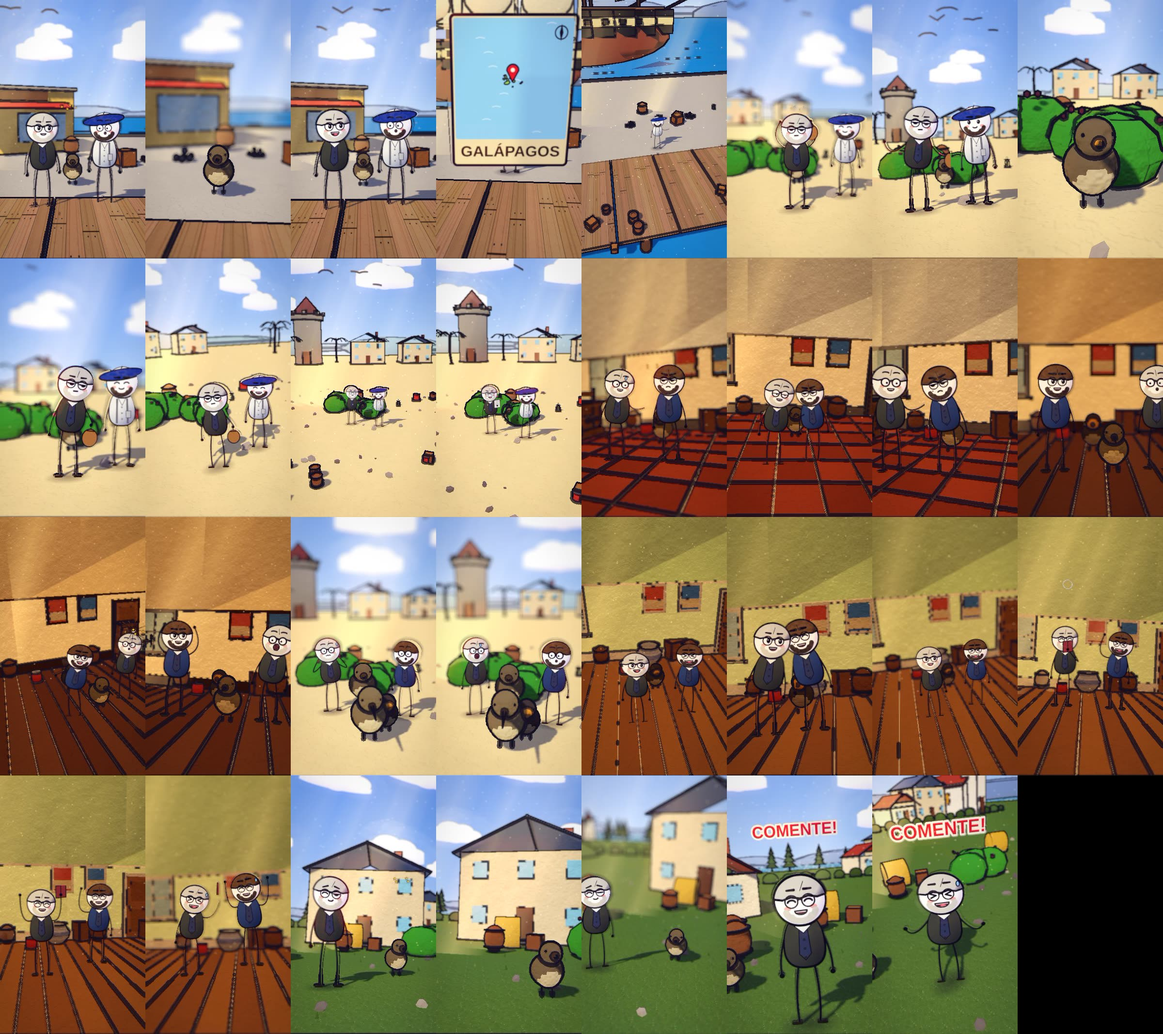
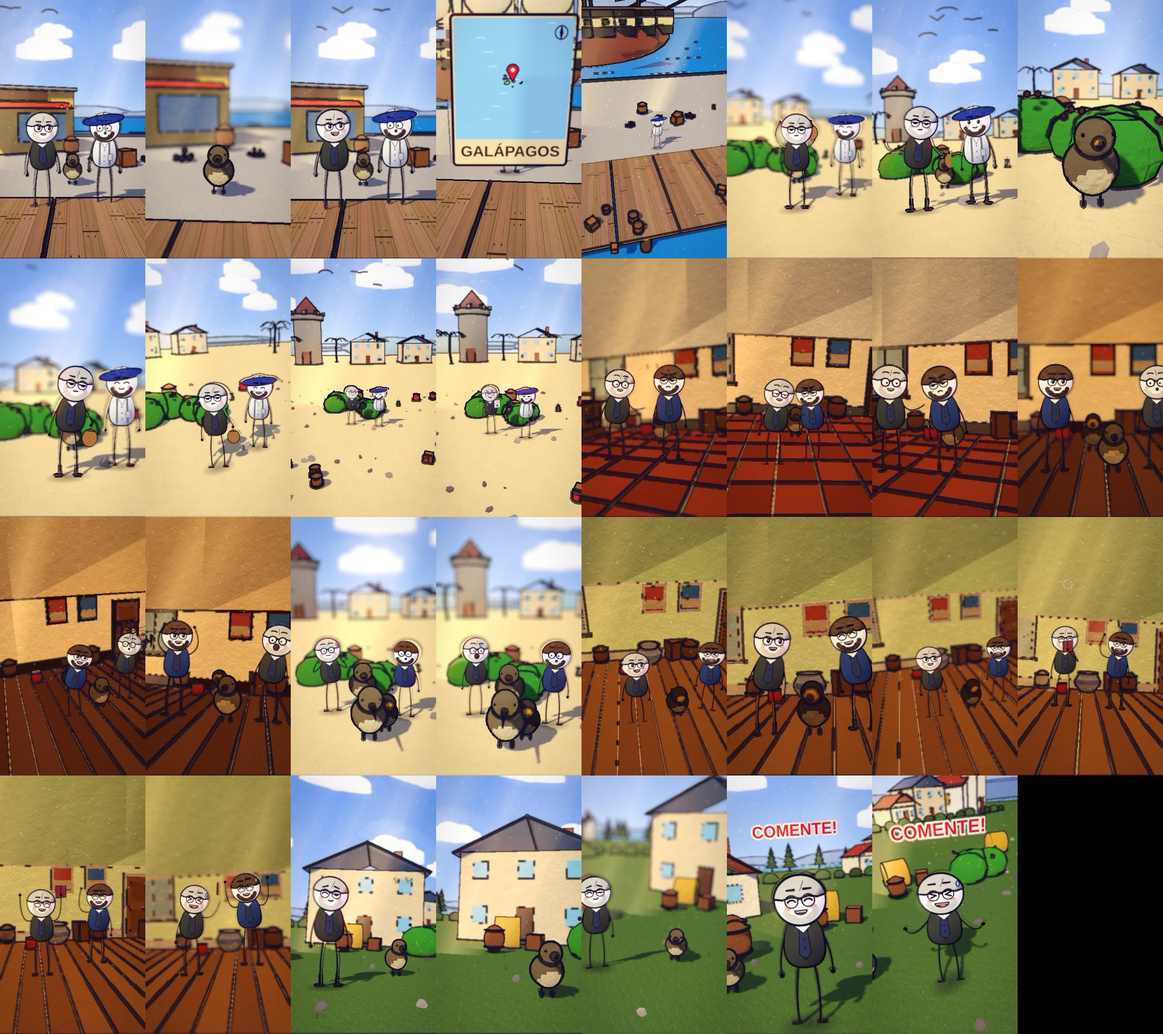
progresso da fila
Claude-Session: https://claude.ai/code/session_01HE8Dy3UcXXZZMLa7uzjNJD

Changed region(s): [[0.6562, 0.5882, 0.75, 0.712], [0.5625, 0.6191, 0.625, 0.712], [0.8125, 0.6191, 0.875, 0.6811]]

diff --git a/ferramenta-shorts/web/story.js b/ferramenta-shorts/web/story.js
@@ -41,7 +41,7 @@ const SPEC = {
     S('b4', A[4], A[5] - 1, X_hall, "study", { h: 2.3, d0: 12.1, d1: 11.5, az0: 6, az1: 12, cx: 0.0, cz: -0.6, vary: false, hero: { hero: 'any', frame: 'medium', minH: 0.07, main: 2 }, trans: 'dissolve', actors: [_MA(pp(X_hall, "DAR", 0, -1.0, 1.3, "surprised", { pose: 'talk', inter: { k: 'lunge', a: Math.round(A[4] + (A[5] - 1 - (A[4])) * 0.12), b: Math.round(A[4] + (A[5] - 1 - (A[4])) * 0.82), dir: 1, n: 2, ph: 0 } }), { gests: [[WS(76) - 8, WS(76) + 46, 'point']] }), pp(X_hall, "GOU", 0, 1.0, 1.0, "shout", { pose: 'talk', inter: { k: 'lunge', a: Math.round(A[4] + (A[5] - 1 - (A[4])) * 0.2), b: Math.round(A[4] + (A[5] - 1 - (A[4])) * 0.9), dir: -1, n: 2, ph: 3.14 } })], props: [{ asset: "kit/room_colonial_stone", at: [X_hall, 0], s: 1, drop: false }, { asset: "mk/Bookcase_2", at: [X_hall + 7.4, -3.4], s: 2.4, drop: false }, { asset: "mk/Table_Large", at: [X_hall + -6.6, -1.6], s: 2.2, drop: false }, { asset: "mk/Chair_1", at: [X_hall + -4.4, -1.2], s: 2.2, drop: false }, { asset: "mk/Chest_Wood", at: [X_hall + 6.9, 0.6], s: 2.2, drop: false }, { asset: "kit/finch", at: [X_hall + 0.0, -1.2], s: 1.5, fixo: true, drop: false }], fx: [{ k: 'stars', a: A[4] + 6, b: A[4] + 40, at: [X_hall + 0.0, DK + 1.6, -0.7], s: 0.8 }] }),
     S('b5', A[5], A[6] - 1, X_hall, "study", { h: 2.3, d0: 12.1, d1: 11.5, az0: -6, az1: 2, cx: 0.0, cz: -0.6, punches: [{ f: WS(91), amt: 0.11, dur: 20 }], vary: false, hero: { hero: 'any', frame: 'medium', minH: 0.07, main: 2 }, trans: 'dissolve', actors: [_MA(pp(X_hall, "GOU", 0, -1.0, 1.3, "smile", { pose: 'talk', inter: { k: 'step', a: Math.round(A[5] + (A[6] - 1 - (A[5])) * 0.12), b: Math.round(A[5] + (A[6] - 1 - (A[5])) * 0.82), dir: 1, n: 2, ph: 0 } }), { gests: [[WS(91) - 8, Math.max(WS(91) + 14, WS(96) - 5), 'throw'], [WS(96) - 8, WS(96) + 46, 'lift']] }), pp(X_hall, "DAR", 0, 1.0, 1.0, "surprised", { pose: 'talk', inter: { k: 'recoil', a: Math.round(A[5] + (A[6] - 1 - (A[5])) * 0.2), b: Math.round(A[5] + (A[6] - 1 - (A[5])) * 0.9), dir: -1, n: 2, ph: 3.14 } })], props: [{ asset: "kit/room_europa_wood", at: [X_hall, 0], s: 1, drop: false }, { asset: "mk/Cabinet", at: [X_hall + -7.2, -3.3], s: 2.3, drop: false }, { asset: "mk/Bed_Twin1", at: [X_hall + 7.0, -2.4], s: 2.1, drop: false }, { asset: "mk/Nightstand_Shelf", at: [X_hall + 4.6, -3.2], s: 2.2, drop: false }, { asset: "mk/CandleStick_Stand", at: [X_hall + -4.8, -2.8], s: 2.2, drop: false }, { asset: "mk/Barrel", at: [X_hall + -7.4, 0.8], s: 2.0, drop: false }, { asset: "kit/finch_thick", at: [X_hall + 0.0, -1.0], s: 1.5, fixo: true, drop: false }, { asset: "kit/finch_long", at: [X_hall + 0.6, 1.0], s: 1.5, fixo: true, drop: false }], fx: [{ k: "dust", a: A[5] + 40, b: A[5] + 66, at: [X_hall + 0.9, DK + 0.12, 1.0], s: 0.75 }, { k: "stars", a: A[5] + 60, b: A[5] + 86, at: [X_hall, DK + 0.5, 1.2], s: 1.1 }, { k: 'burst', a: WS(91) + 2, b: WS(91) + 20, at: [X_hall + 1.3, DK + 1.6, 2.5], s: 1.1 }, { k: 'stars', a: WS(91) + 4, b: WS(91) + 30, at: [X_hall + 1.3, DK + 1.8, 2.5], s: 0.8 }] }),
     { ...S('b6', A[6], A[7] - 1, X_palace, "day", { h: 2.6, d0: 12.1, d1: 11.5, el: 11, fov: 46, cx: 0.0, cz: -0.6, hero: { hero: 'none', wide: true }, vary: false, nocut: true, trans: 'dissolve', actors: [pp(X_palace, "DAR", 0, -1.0, -0.4, "shock", { pose: 'react' }), pp(X_palace, "GOU", 0, 1.0, 0.2, "surprised")], props: [{ asset: "kit/finch_thick", at: [X_palace + 0.6, 1.0], s: 1.5, fixo: true, drop: false }, { asset: "kit/finch_long", at: [X_palace + 0.0, 1.4], s: 2.0, fixo: true, drop: false }, { asset: "kit/finch", at: [X_palace + 0.0, -1.2], s: 2.0, fixo: true, drop: false }], fx: [{ k: 'birds', a: A[6], b: A[7] - 1, at: [X_palace, DK + 4.5, -30], n: 4, dir: -1, off: 8 }, { k: "ring", a: A[6] + 40, b: A[6] + 66, at: [X_palace, DK + 0.5, 1.2], s: 1.1 }, { k: "stars", a: A[6] + 60, b: A[6] + 86, at: [X_palace, DK + 0.5, 1.2], s: 1.1 }] }), nocut: true },
-    S('b7', A[7], A[8] - 1, X_hall, "study", { h: 2.3, d0: 12.1, d1: 11.5, az0: 10, az1: 4, cx: 0.0, cz: -0.6, hero: { hero: 'any', frame: 'medium', minH: 0.07, main: 2 }, trans: 'dissolve', actors: [pp(X_hall, "DAR", 0, -1.0, 1.3, "smile", { pose: 'talk', inter: { k: 'lean', a: Math.round(A[7] + (A[8] - 1 - (A[7])) * 0.12), b: Math.round(A[7] + (A[8] - 1 - (A[7])) * 0.82), dir: 1, n: 2, ph: 0 } }), pp(X_hall, "GOU", 0, 1.0, 1.0, "grin", { pose: 'talk', inter: { k: 'lean', a: Math.round(A[7] + (A[8] - 1 - (A[7])) * 0.2), b: Math.round(A[7] + (A[8] - 1 - (A[7])) * 0.9), dir: -1, n: 2, ph: 3.14 } })], props: [{ asset: "kit/room_verde_wood", at: [X_hall, 0], s: 1, drop: false }, { asset: "mk/Workbench_Drawers", at: [X_hall + 7.0, -3.0], s: 2.2, drop: false }, { asset: "mk/Shelf_Small_Bottles", at: [X_hall + -6.8, -3.4], s: 2.4, drop: false }, { asset: "mk/Stool", at: [X_hall + 4.8, -1.4], s: 2.2, drop: false }, { asset: "mk/Crate_Wooden", at: [X_hall + -7.0, 0.4], s: 2.0, drop: false }, { asset: "mk/Vase_2", at: [X_hall + 0.0, -3.6], s: 2.2, drop: false }, { asset: "kit/finch_thick", at: [X_hall + 0.0, -1.0], s: 1.5, fixo: true, drop: false }] }),
+    S('b7', A[7], A[8] - 1, X_hall, "study", { h: 2.3, d0: 12.1, d1: 11.5, az0: 10, az1: 4, cx: 0.0, cz: -0.6, hero: { hero: 'any', frame: 'medium', minH: 0.07, main: 2 }, trans: 'dissolve', actors: [pp(X_hall, "DAR", 0, -1.0, 1.3, "smile", { pose: 'talk', inter: { k: 'lean', a: Math.round(A[7] + (A[8] - 1 - (A[7])) * 0.12), b: Math.round(A[7] + (A[8] - 1 - (A[7])) * 0.82), dir: 1, n: 2, ph: 0 } }), pp(X_hall, "GOU", 0, 1.0, 1.0, "grin", { pose: 'talk', inter: { k: 'lean', a: Math.round(A[7] + (A[8] - 1 - (A[7])) * 0.2), b: Math.round(A[7] + (A[8] - 1 - (A[7])) * 0.9), dir: -1, n: 2, ph: 3.14 } })], props: [{ asset: "kit/room_verde_wood", at: [X_hall, 0], s: 1, drop: false }, { asset: "mk/Workbench_Drawers", at: [X_hall + 7.0, -3.0], s: 2.2, drop: false }, { asset: "mk/Shelf_Small_Bottles", at: [X_hall + -6.8, -3.4], s: 2.4, drop: false }, { asset: "mk/Stool", at: [X_hall + 4.8, -1.4], s: 2.2, drop: false }, { asset: "mk/Crate_Wooden", at: [X_hall + -7.0, 0.4], s: 2.0, drop: false }, { asset: "mk/Vase_2", at: [X_hall + 0.0, -3.6], s: 2.2, drop: false }, { asset: "kit/finch_thick", at: [X_hall + 0.6, 1.0], s: 1.5, fixo: true, drop: false }] }),
     S('b8', A[8], A[9] - 1, X_hall, "study", { h: 2.5, d0: 11.4, d1: 10.2, az0: -13, az1: -7, vary: false, hero: { hero: 'any', frame: 'medium', minH: 0.07, main: 2 }, trans: 'dissolve', actors: [_MA(pp(X_hall, "DAR", 0, -1.0, 1.3, "grin", { over: { hold: "book" }, pose: 'cheer', inter: { k: 'hop', a: Math.round(A[8] + (A[9] - 1 - (A[8])) * 0.12), b: Math.round(A[8] + (A[9] - 1 - (A[8])) * 0.82), dir: 1, n: 2, ph: 0 } }), { gests: [[WS(127) - 8, WS(127) + 46, 'think']] }), pp(X_hall, "GOU", 0, 1.0, 1.0, "laugh", { pose: 'cheer', inter: { k: 'hop', a: Math.round(A[8] + (A[9] - 1 - (A[8])) * 0.2), b: Math.round(A[8] + (A[9] - 1 - (A[8])) * 0.9), dir: -1, n: 2, ph: 3.14 } })], props: [{ asset: "kit/room_verde_wood", at: [X_hall, 0], s: 1, drop: false }, { asset: "mk/Workbench_Drawers", at: [X_hall + 7.0, -3.0], s: 2.2, drop: false }, { asset: "mk/Shelf_Small_Bottles", at: [X_hall + -6.8, -3.4], s: 2.4, drop: false }, { asset: "mk/Stool", at: [X_hall + 4.8, -1.4], s: 2.2, drop: false }, { asset: "mk/Crate_Wooden", at: [X_hall + -7.0, 0.4], s: 2.0, drop: false }, { asset: "mk/Vase_2", at: [X_hall + 0.0, -3.6], s: 2.2, drop: false }], fx: [{ k: 'ring', a: WS(127) + 6, b: WS(127) + 34, at: [X_hall + -1.0, DK + 3.6, 1.5], s: 0.7 }] }),
     S('b9', A[9], Math.round(A[9] + (A[10] - 1 + 1 - (A[9])) * 0.36) - 1, X_countryside, "day", { h: 2.3, d0: 8.4, d1: 8.0, az0: -6, az1: 8, cx: 1.2, cz: 0.1, hero: { hero: 'any', frame: 'medium', minH: 0.07, main: 1 }, trans: 'dissolve', actors: [pp(X_countryside, "DAR", 0, 0.0, 1.3, "smug", { pose: 'talk' })], props: [{ asset: "buildings/house_two", at: [X_countryside + 4.8, -11.0], s: 1.05, ry: -0.35, drop: false }, { asset: "kit/finch", at: [X_countryside + 2.4, 0.2], s: 1.3, fixo: true, drop: false }], fx: [{ k: 'stars', a: A[9] + 6, b: A[9] + 40, at: [X_countryside + 2.4, DK + 1.6, 0.7], s: 0.8 }] }), { ...S('b9_d', Math.round(A[9] + (A[10] - 1 + 1 - (A[9])) * 0.36), Math.round(A[9] + (A[10] - 1 + 1 - (A[9])) * 0.6) - 1, X_countryside, "day", { h: 2.3, d0: 8.4, d1: 8.0, az0: -6, az1: 8, cx: 1.2, cz: 0.1, hero: { hero: 'none', detalhe: true }, trans: 'cut', actors: [pp(X_countryside, "DAR", 0, 0.0, 1.3, "smug", { pose: 'stand' })], props: [{ asset: "buildings/house_two", at: [X_countryside + 4.8, -11.0], s: 1.05, drop: false, ry: -0.35, drop: false }, { asset: "kit/finch", at: [X_countryside + 2.4, 0.2], s: 1.3, drop: false, fixo: true, drop: false }], fx: [{ k: 'stars', a: A[9] + 6, b: A[9] + 40, at: [X_countryside + 2.4, DK + 1.6, 0.7], s: 0.8 }] }), cam: [{ f: Math.round(A[9] + (A[10] - 1 + 1 - (A[9])) * 0.36), at: [X_countryside + 2.4, DK + 0.975, 0.2], d: 4.2, az: -14, el: 10, fov: 44 }, { f: Math.round(A[9] + (A[10] - 1 + 1 - (A[9])) * 0.6) - 1, at: [X_countryside + 2.4, DK + 0.975, 0.2], d: 3.4, az: -8, el: 9, fov: 44 }], nocut: true, vary: false, glide: true, glideN: 34 }, { ...S('b9_v', Math.round(A[9] + (A[10] - 1 + 1 - (A[9])) * 0.6), A[10] - 1, X_countryside, "day", { h: 2.3, d0: 8.4, d1: 8.0, az0: -6, az1: 8, cx: 1.2, cz: 0.1, hero: { hero: 'any', frame: 'medium', minH: 0.07, main: 1 }, trans: 'cut', actors: [pp(X_countryside, "DAR", 0, 0.0, 1.3, "smug", { pose: 'talk' })], props: [{ asset: "buildings/house_two", at: [X_countryside + 4.8, -11.0], s: 1.05, drop: false, ry: -0.35, drop: false }, { asset: "kit/finch", at: [X_countryside + 2.4, 0.2], s: 1.3, drop: false, fixo: true, drop: false }], fx: [{ k: 'stars', a: A[9] + 6, b: A[9] + 40, at: [X_countryside + 2.4, DK + 1.6, 0.7], s: 0.8 }] }), glide: true, glideN: 34 },
     S('b10', A[10], A[11] - 1, X_countryside, "day", { h: 2.4, d0: 6.4, d1: 5.6, az0: -26, az1: -12, hero: { hero: 'any', frame: 'medium', minH: 0.07, main: 1 }, trans: 'dissolve', actors: [pp(X_countryside, "DAR", 0, 0.0, 1.3, "grin", { pose: 'talk' })], props: [{ asset: "buildings/house_small", at: [X_countryside + -4.8, -11.0], s: 1.05, ry: 0.35, drop: false }, { asset: "kit/finch", at: [X_countryside + -1.7, -0.5], s: 1.3, drop: false }], fx: [{ k: 'stars', a: A[10] + 6, b: A[10] + 40, at: [X_countryside + -1.7, DK + 1.6, 0.0], s: 0.8 }, { k: 'birds', a: A[10], b: A[11] - 1, at: [X_countryside, DK + 6.0, -30], n: 5, dir: -1, off: 8 }, txt(X_countryside, WS(151, -2), A[11] - 1, "COMENTE!", '#d8282f', '#fff6e0', 4.6, { s: 1.5, up: 0.55 })] })

diff --git a/ferramenta-shorts/stories/darwin1835/folha2_producao.md b/ferramenta-shorts/stories/darwin1835/folha2_producao.md
@@ -11,17 +11,6 @@ Coordenadas de cada cena para modelagem, animacao e camera, com os RISCOS que o 
 - Objetos/modelos: kit/finch
 - CONFERIR NA FOLHA DE CONTATO (o que a narracao cita tem que aparecer): cientista, etiquetas, terra
 - RISCOS: nenhum
-<!-- FICHA -->
-
-### FICHA TECNICA DA CENA (lugar, camera, personagens, objetos, efeitos, texto)
-- LOCAL: cais de madeira na beira do mar (agua e horizonte ao fundo); hora: day
-- CAMERA: plano medio, 2 personagens de corpo inteiro; plano medio enquadrando personagens e finch juntos (camera a 11.5 m)
-- PERSONAGENS: DAR (cientista) na esquerda, expressao smile; MAR (marinheiro) na direita, expressao surprised; sem multidao; acao: fala/gesto
-- OBJETO kit/finch: MEIO, centro (objeto principal da cena); tamanho na tela: 32% da altura da tela; estado: PARADO; 1.3 m: entre e um pouco atras dos personagens, mesmo plano, tamanho de uma pessoa
-- TAKES: 2 takes (troca de angulo a cada ~2.0 s, sem corte seco):
-  - take 1 (0.1-2.1 s): gira 14 graus para a esquerda, camera mais alta, olhando um pouco de cima, um pouco mais longe
-  - take 2 (2.1-4.1 s): gira 8 graus para a direita, camera mais baixa, olhando um pouco de baixo, um pouco mais perto
-<!-- /FICHA -->
 
 ## Cena b1 - Em mil oitocentos e trinta e cinco, Charles Darwin chegou às ilhas Gal...
 - Cenario: harbor | luz: day | clima: limpo
@@ -32,19 +21,6 @@ Coordenadas de cada cena para modelagem, animacao e camera, com os RISCOS que o 
 - Objetos/modelos: kit/navio_vela, navios de guerra ao fundo, no tamanho real, navio em movimento
 - CONFERIR NA FOLHA DE CONTATO (o que a narracao cita tem que aparecer): ilhas, navio
 - RISCOS: nenhum
-<!-- FICHA -->
-
-### FICHA TECNICA DA CENA (lugar, camera, personagens, objetos, efeitos, texto)
-- LOCAL: cais de madeira na beira do mar (agua e horizonte ao fundo); hora: day
-- CAMERA: plano aberto (cenario inteiro); plano aberto mirando o navio_vela (alvo z -2.0, camera a 20.0 m, altura 4.0 m), sem multidao na frente
-- PERSONAGENS: MAR (marinheiro) no centro, expressao neutral; sem multidao; acao: fala/gesto
-- OBJETO kit/navio_vela: FUNDO, centro (objeto principal da cena); tamanho na tela: 30% da altura da tela; estado: CHEGANDO; 42.8 m de altura x 40.5 m: ATRAS dos personagens, de lado, ocupando a largura do quadro (a ponta pode sair da tela); personagens na frente, menores
-- MAPA: GALÁPAGOS (cobre a tela 1-2 s)
-- TAKES: 3 takes (troca de angulo a cada ~1.5 s, sem corte seco):
-  - take 1 (5.2-6.7 s): gira 18 graus para a esquerda, camera mais alta, olhando um pouco de cima, um pouco mais longe
-  - take 2 (6.7-8.2 s): gira 12 graus para a direita, camera mais baixa, olhando um pouco de baixo
-  - take 3 (8.2-9.7 s): mesmo angulo
-<!-- /FICHA -->
 
 ## Cena b2 - Coletou bichos, plantas e uns passarinhos pequenos, de ilha em ilha. A...
 - Cenario: palace | luz: day | clima: limpo
@@ -55,19 +31,6 @@ Coordenadas de cada cena para modelagem, animacao e camera, com os RISCOS que o 
 - Objetos/modelos: kit/finch
 - CONFERIR NA FOLHA DE CONTATO (o que a narracao cita tem que aparecer): beagle, ilha, viagem
 - RISCOS: nenhum
-<!-- FICHA -->
-
-### FICHA TECNICA DA CENA (lugar, camera, personagens, objetos, efeitos, texto)
-- LOCAL: praia / palacio; hora: day
-- CAMERA: plano medio, 2 personagens de corpo inteiro; plano medio enquadrando personagens e finch juntos (camera a 11.5 m)
-- PERSONAGENS: DAR (cientista) na esquerda, expressao neutral, segura bag; MAR (marinheiro) na direita, expressao smile; sem multidao; acao: fala/gesto
-- OBJETO kit/finch: MEIO, centro (objeto principal da cena); tamanho na tela: 32% da altura da tela; estado: PARADO; 1.2 m: entre e um pouco atras dos personagens, mesmo plano, tamanho de uma pessoa
-- TAKES: 4 takes (troca de angulo a cada ~1.9 s, sem corte seco):
-  - take 1 (10.8-12.7 s): mesmo angulo
-  - take 2 (12.7-14.7 s): gira 16 graus para a direita, camera mais baixa, olhando um pouco de baixo, um pouco mais perto
-  - take 3 (14.7-16.6 s): gira 14 graus para a esquerda, camera mais alta, olhando um pouco de cima, um pouco mais longe
-  - take 4 (16.6-18.5 s): gira 8 graus para a direita, camera mais baixa, olhando um pouco de baixo, um pouco mais perto
-<!-- /FICHA -->
 
 ## Cena b3 - Achou que eram aves bem diferentes, e nem anotou de que ilha vinha cad...
 - Cenario: palace | luz: day | clima: limpo
@@ -78,17 +41,6 @@ Coordenadas de cada cena para modelagem, animacao e camera, com os RISCOS que o 
 - Objetos/modelos: kit/finch
 - CONFERIR NA FOLHA DE CONTATO (o que a narracao cita tem que aparecer): -
 - RISCOS: nenhum
-<!-- FICHA -->
-
-### FICHA TECNICA DA CENA (lugar, camera, personagens, objetos, efeitos, texto)
-- LOCAL: praia / palacio; hora: day
-- CAMERA: plano medio, 2 personagens de corpo inteiro
-- PERSONAGENS: DAR (cientista) na esquerda, expressao suspicious, segura paper; MAR (marinheiro) na direita, expressao bored; sem multidao; acao: conversar
-- OBJETOS: so cenario (nenhum objeto da historia nesta cena)
-- TAKES: 2 takes (troca de angulo a cada ~1.9 s, sem corte seco):
-  - take 1 (19.6-21.5 s): gira 18 graus para a esquerda, camera mais alta, olhando um pouco de cima, um pouco mais longe
-  - take 2 (21.5-23.3 s): gira 12 graus para a direita, camera mais baixa, olhando um pouco de baixo
-<!-- /FICHA -->
 
 ## Cena b4 - Em Londres, o especialista John Gould revelou: eram todos tentilhões, ...
 - Cenario: interior pedra | luz: day | clima: limpo
@@ -99,18 +51,6 @@ Coordenadas de cada cena para modelagem, animacao e camera, com os RISCOS que o 
 - Objetos/modelos: kit/finch
 - CONFERIR NA FOLHA DE CONTATO (o que a narracao cita tem que aparecer): especialista, especies
 - RISCOS: nenhum
-<!-- FICHA -->
-
-### FICHA TECNICA DA CENA (lugar, camera, personagens, objetos, efeitos, texto)
-- LOCAL: sala de pedra (governo/castelo); hora: day
-- CAMERA: plano medio, 2 personagens de corpo inteiro; plano medio enquadrando personagens e finch juntos (camera a 11.5 m)
-- PERSONAGENS: DAR (cientista) na esquerda, expressao surprised; GOU (cientista) na direita, expressao shout; sem multidao; acao: discutir
-- OBJETO kit/finch: MEIO, centro (objeto principal da cena); tamanho na tela: 32% da altura da tela; estado: PARADO; 1.4 m: entre e um pouco atras dos personagens, mesmo plano, tamanho de uma pessoa
-- TAKES: 3 takes (troca de angulo a cada ~1.5 s, sem corte seco):
-  - take 1 (24.4-25.9 s): gira 16 graus para a direita, camera mais baixa, olhando um pouco de baixo, um pouco mais perto
-  - take 2 (25.9-27.5 s): gira 14 graus para a esquerda, camera mais alta, olhando um pouco de cima, um pouco mais longe
-  - take 3 (27.5-29.0 s): gira 8 graus para a direita, camera mais baixa, olhando um pouco de baixo, um pouco mais perto
-<!-- /FICHA -->
 
 ## Cena b5 - A diferença estava no bico: uns grossos para quebrar sementes, outros ...
 - Cenario: interior madeira | luz: day | clima: limpo
@@ -121,23 +61,6 @@ Coordenadas de cada cena para modelagem, animacao e camera, com os RISCOS que o 
 - Objetos/modelos: kit/finch_thick, kit/finch_long
 - CONFERIR NA FOLHA DE CONTATO (o que a narracao cita tem que aparecer): bico, diferenca
 - RISCOS: nenhum
-<!-- FICHA -->
-
-### FICHA TECNICA DA CENA (lugar, camera, personagens, objetos, efeitos, texto)
-- LOCAL: sala de madeira; hora: day
-- CAMERA: plano medio, 2 personagens de corpo inteiro; plano medio enquadrando personagens e finch_thick juntos (camera a 11.5 m)
-- PERSONAGENS: GOU (cientista) na esquerda, expressao smile; DAR (cientista) na direita, expressao surprised; sem multidao; acao: fala/gesto
-- OBJETO kit/finch_thick: MEIO, centro (objeto principal da cena); tamanho na tela: 32% da altura da tela; estado: PARADO; 1.4 m: entre e um pouco atras dos personagens, mesmo plano, tamanho de uma pessoa
-- OBJETO kit/finch_long: MEIO, direita; tamanho na tela: 32% da altura da tela; estado: PARADO; 1.4 m: entre e um pouco atras dos personagens, mesmo plano, tamanho de uma pessoa
-- EFEITO poeira nos pes: no chao, aos pes; entra no quadro +40 da cena
-- EFEITO estrelinhas sobre a cabeca (susto/tontura): acima da cabeca; entra no quadro +60 da cena
-- SOM: thump@40
-- SOM: ding@60
-- TAKES: 3 takes (troca de angulo a cada ~1.6 s, sem corte seco):
-  - take 1 (30.5-32.1 s): gira 8 graus para a direita, camera mais baixa, olhando um pouco de baixo, um pouco mais perto
-  - take 2 (32.1-33.8 s): gira 18 graus para a esquerda, camera mais alta, olhando um pouco de cima, um pouco mais longe
-  - take 3 (33.8-35.4 s): gira 12 graus para a direita, camera mais baixa, olhando um pouco de baixo
-<!-- /FICHA -->
 
 ## Cena b6 - Acontece que, em cada ilha, o bico tinha mudado de acordo com a comida...
 - Cenario: palace | luz: day | clima: limpo
@@ -148,21 +71,6 @@ Coordenadas de cada cena para modelagem, animacao e camera, com os RISCOS que o 
 - Objetos/modelos: kit/finch_thick, kit/finch_long, kit/finch
 - CONFERIR NA FOLHA DE CONTATO (o que a narracao cita tem que aparecer): acordo, bico, comida
 - RISCOS: nenhum
-<!-- FICHA -->
-
-### FICHA TECNICA DA CENA (lugar, camera, personagens, objetos, efeitos, texto)
-- LOCAL: praia / palacio; hora: day
-- CAMERA: plano medio, 2 personagens de corpo inteiro; plano medio enquadrando personagens e finch juntos (camera a 11.5 m)
-- PERSONAGENS: DAR (cientista) na esquerda, expressao shock; GOU (cientista) na direita, expressao surprised; sem multidao; acao: fala/gesto
-- OBJETO kit/finch: MEIO, centro (objeto principal da cena); tamanho na tela: 32% da altura da tela; estado: PARADO; 1.9 m: entre e um pouco atras dos personagens, mesmo plano, tamanho de uma pessoa
-- OBJETO kit/finch_thick: MEIO, direita; tamanho na tela: 32% da altura da tela; estado: PARADO; 1.4 m: entre e um pouco atras dos personagens, mesmo plano, tamanho de uma pessoa
-- OBJETO kit/finch_long: MEIO, esquerda; tamanho na tela: 32% da altura da tela; estado: PARADO; 1.9 m: entre e um pouco atras dos personagens, mesmo plano, tamanho de uma pessoa
-- EFEITO anel de impacto: acima da cabeca; entra no quadro +40 da cena
-- EFEITO estrelinhas sobre a cabeca (susto/tontura): acima da cabeca; entra no quadro +60 da cena
-- SOM: ding@40
-- SOM: sting@60
-- TAKES: sequencia de acao em 3 cameras (3.7 s): 1) plano medio baixo na tropa (30%); 2) travelling lateral acompanhando a acao (25%); 3) grua subindo ate a vista de cima do campo (45%)
-<!-- /FICHA -->
 
 ## Cena b7 - Os bichos com o bico certo sobreviviam melhor, e passavam isso para os...
 - Cenario: interior madeira | luz: day | clima: limpo
@@ -173,17 +81,6 @@ Coordenadas de cada cena para modelagem, animacao e camera, com os RISCOS que o 
 - Objetos/modelos: kit/finch_thick
 - CONFERIR NA FOLHA DE CONTATO (o que a narracao cita tem que aparecer): bichos, bico, filhos
 - RISCOS: nenhum
-<!-- FICHA -->
-
-### FICHA TECNICA DA CENA (lugar, camera, personagens, objetos, efeitos, texto)
-- LOCAL: sala de madeira; hora: day
-- CAMERA: plano medio, 2 personagens de corpo inteiro; plano medio enquadrando personagens e finch_thick juntos (camera a 11.5 m)
-- PERSONAGENS: DAR (cientista) na esquerda, expressao smile; GOU (cientista) na direita, expressao grin; sem multidao; acao: cochichar
-- OBJETO kit/finch_thick: MEIO, centro (objeto principal da cena); tamanho na tela: 32% da altura da tela; estado: PARADO; 1.4 m: entre e um pouco atras dos personagens, mesmo plano, tamanho de uma pessoa
-- TAKES: 2 takes (troca de angulo a cada ~2.0 s, sem corte seco):
-  - take 1 (41.6-43.5 s): gira 14 graus para a esquerda, camera mais alta, olhando um pouco de cima, um pouco mais longe
-  - take 2 (43.5-45.5 s): gira 8 graus para a direita, camera mais baixa, olhando um pouco de baixo, um pouco mais perto
-<!-- /FICHA -->
 
 ## Cena b8 - Essa ideia virou a seleção natural, publicada em mil oitocentos e cinq...
 - Cenario: interior madeira | luz: day | clima: limpo
@@ -194,17 +91,6 @@ Coordenadas de cada cena para modelagem, animacao e camera, com os RISCOS que o 
 - Objetos/modelos: -
 - CONFERIR NA FOLHA DE CONTATO (o que a narracao cita tem que aparecer): selecao
 - RISCOS: nenhum
-<!-- FICHA -->
-
-### FICHA TECNICA DA CENA (lugar, camera, personagens, objetos, efeitos, texto)
-- LOCAL: sala de madeira; hora: day
-- CAMERA: plano medio, 2 personagens de corpo inteiro
-- PERSONAGENS: DAR (cientista) na esquerda, expressao grin, segura book; GOU (cientista) na direita, expressao laugh; sem multidao; acao: comemorar
-- OBJETOS: so cenario (nenhum objeto da historia nesta cena)
-- TAKES: 2 takes (troca de angulo a cada ~2.0 s, sem corte seco):
-  - take 1 (46.6-48.5 s): gira 12 graus para a direita, camera mais baixa, olhando um pouco de baixo
-  - take 2 (48.5-50.5 s): mesmo angulo
-<!-- /FICHA -->
 
 ## Cena b9 - No fim, o erro das etiquetas virou um acerto de bico.
 - Cenario: countryside | luz: day | clima: limpo
@@ -215,17 +101,6 @@ Coordenadas de cada cena para modelagem, animacao e camera, com os RISCOS que o 
 - Objetos/modelos: kit/finch
 - CONFERIR NA FOLHA DE CONTATO (o que a narracao cita tem que aparecer): acerto, bico, erro, etiquetas
 - RISCOS: nenhum
-<!-- FICHA -->
-
-### FICHA TECNICA DA CENA (lugar, camera, personagens, objetos, efeitos, texto)
-- LOCAL: vila rural (casas, cercas, campo); hora: day
-- CAMERA: plano medio, 2 personagens de corpo inteiro; plano medio enquadrando personagens e finch juntos (camera a 8.0 m)
-- PERSONAGENS: DAR (cientista) no centro, expressao smug; sem multidao; acao: fala/gesto
-- OBJETO kit/finch: MEIO, direita (objeto principal da cena); tamanho na tela: 32% da altura da tela; estado: PARADO; 1.2 m: ao lado do personagem, mesmo plano, tamanho de uma pessoa
-- TAKES: 2 takes (troca de angulo a cada ~1.4 s, sem corte seco):
-  - take 1 (51.5-52.9 s): gira 16 graus para a direita, camera mais baixa, olhando um pouco de baixo, um pouco mais perto
-  - take 2 (52.9-54.2 s): gira 14 graus para a esquerda, camera mais alta, olhando um pouco de cima, um pouco mais longe
-<!-- /FICHA -->
 
 ## Cena b10 - Agora não deixe de comentar: qual deve ser o tema do próximo vídeo?
 - Cenario: countryside | luz: day | clima: limpo
@@ -259,12 +134,3 @@ kit/finch_long | b5, b6 | pronto | conferir na folha de contato se le bem; se pa
 - Defeito em poucas cenas e narracao igual: corrija o beats.json e `./refazer.sh darwin1835 bN bM` (so essas cenas).
 - Mudou narracao, ferramenta ou muitas cenas: `./refazer_tudo.sh darwin1835` (render completo).
 - Personagem cortado: tire gente do "who" ou use "shot": "group". Cena vazia: confira "who". Objeto fora do quadro: ponha em "props" com x entre -2 e 2. Luz estourada: "hora"/"clima" na cena.
-<!-- FICHA -->
-
-### FICHA TECNICA DA CENA (lugar, camera, personagens, objetos, efeitos, texto)
-- (sem ficha)
-- TAKES: 2 takes (troca de angulo a cada ~1.7 s, sem corte seco):
-  - take 1 (55.3-57.0 s): gira 8 graus para a direita, camera mais baixa, olhando um pouco de baixo, um pouco mais perto
-  - take 2 (57.0-58.6 s): gira 18 graus para a esquerda, camera mais alta, olhando um pouco de cima, um pouco mais longe
-<!-- /FICHA -->
-

diff --git a/ferramenta-shorts/stories/darwin1835/folha3_acao.md b/ferramenta-shorts/stories/darwin1835/folha3_acao.md
@@ -12,13 +12,6 @@ Catalogo de TODAS as acoes do roteiro, frase por frase, com o instante (segundos
 | 1 | explicou (3.3s) | ACAO: fala | aponta explicando | OK |
 | 2 | - | INTERACAO | vai ate o outro | OK |
 | 3 | - | ATUACAO | conversar | OK |
-<!-- FISICA -->
-
-**FISICA E MOVIMENTO (como cada acao acontece na tela):**
-- ACAO: fala na palavra explicou (3.3s): braco estendido apontando para o objeto/lugar citado
-- INTERACAO (a cena toda): executa: vai ate o outro
-- ATUACAO (a cena toda): executa: conversar
-<!-- /FISICA -->
 
 ## Cena b1 - 5.2s a 9.7s - 16 palavras - plano reveal
 > "Em mil oitocentos e trinta e cinco, Charles Darwin chegou às ilhas Galápagos, no navio Beagle."
@@ -28,14 +21,6 @@ Catalogo de TODAS as acoes do roteiro, frase por frase, com o instante (segundos
 | 1 | chegou (7.7s) | EFEITO: dust | poeira + som | OK |
 | 2 | chegou (7.7s) | ACAO: chega | entra andando pela lateral | OK |
 | 3 | - | MAPA | GALÁPAGOS | OK |
-<!-- FISICA -->
-
-**FISICA E MOVIMENTO (como cada acao acontece na tela):**
-- EFEITO: dust na palavra chegou (7.7s): executa: poeira + som
-- ACAO: chega na palavra chegou (7.7s): executa: entra andando pela lateral
-- MAPA (a cena toda): mapa entra em ~0,3 s e cobre a tela por 1-2 s, com o ponto do lugar pulsando
-- kit/navio_vela CHEGANDO: entra pela esquerda do quadro e desliza ate o lugar da ficha em ~85% da cena (velocidade constante, sem tremer)
-<!-- /FISICA -->
 
 ## Cena b2 - 10.8s a 18.5s - 24 palavras - plano two
 > "Coletou bichos, plantas e uns passarinhos pequenos, de ilha em ilha. A viagem do Beagle durou quase cinco anos, dando a volta ao mundo."
@@ -45,13 +30,6 @@ Catalogo de TODAS as acoes do roteiro, frase por frase, com o instante (segundos
 | 1 | Coletou (10.8s) | ACAO: pega | levanta/segura | OK |
 | 2 | - | INTERACAO | aproxima-se | OK |
 | 3 | - | ATUACAO | conversar | OK |
-<!-- FISICA -->
-
-**FISICA E MOVIMENTO (como cada acao acontece na tela):**
-- ACAO: pega na palavra Coletou (10.8s): executa: levanta/segura
-- INTERACAO (a cena toda): executa: aproxima-se
-- ATUACAO (a cena toda): executa: conversar
-<!-- /FISICA -->
 
 ## Cena b3 - 19.6s a 23.3s - 15 palavras - plano wide
 > "Achou que eram aves bem diferentes, e nem anotou de que ilha vinha cada uma."
@@ -61,13 +39,6 @@ Catalogo de TODAS as acoes do roteiro, frase por frase, com o instante (segundos
 | 1 | Achou (19.6s) | ACAO: olha | aponta/olha | OK |
 | 2 | - | GRANDE MOMENTO | plano de impacto: efeito + som na palavra-chave (sem tiro) | OK |
 | 3 | - | ATUACAO | conversar | OK |
-<!-- FISICA -->
-
-**FISICA E MOVIMENTO (como cada acao acontece na tela):**
-- ACAO: olha na palavra Achou (19.6s): braco estendido apontando para o objeto/lugar citado
-- GRANDE MOMENTO (a cena toda): clarao no cano da arma por ~0,25 s + estampido; a arma recua; o alvo (se houver) tomba
-- ATUACAO (a cena toda): executa: conversar
-<!-- /FISICA -->
 
 ## Cena b4 - 24.4s a 29.0s - 13 palavras - plano two
 > "Em Londres, o especialista John Gould revelou: eram todos tentilhões, de espécies diferentes."
@@ -77,13 +48,6 @@ Catalogo de TODAS as acoes do roteiro, frase por frase, com o instante (segundos
 | 1 | revelou (26.3s) | ACAO: fala | aponta explicando | OK |
 | 2 | - | INTERACAO | discutir | OK |
 | 3 | - | ATUACAO | conversar | OK |
-<!-- FISICA -->
-
-**FISICA E MOVIMENTO (como cada acao acontece na tela):**
-- ACAO: fala na palavra revelou (26.3s): braco estendido apontando para o objeto/lugar citado
-- INTERACAO (a cena toda): os dois inclinam o tronco um para o outro alternando, bocas abertas, gesto de apontar
-- ATUACAO (a cena toda): executa: conversar
-<!-- /FISICA -->
 
 ## Cena b5 - 30.5s a 35.4s - 15 palavras - plano two
 > "A diferença estava no bico: uns grossos para quebrar sementes, outros finos para pegar insetos."
@@ -94,14 +58,6 @@ Catalogo de TODAS as acoes do roteiro, frase por frase, com o instante (segundos
 | 2 | pegar (35.1s) | ACAO: pega | levanta/segura | OK |
 | 3 | - | INTERACAO | avanca e o outro recua | OK |
 | 4 | - | ATUACAO | conversar | OK |
-<!-- FISICA -->
-
-**FISICA E MOVIMENTO (como cada acao acontece na tela):**
-- ACAO: quebra na palavra quebrar (33.0s): executa: quebra + estouro + tremor
-- ACAO: pega na palavra pegar (35.1s): executa: levanta/segura
-- INTERACAO (a cena toda): executa: avanca e o outro recua
-- ATUACAO (a cena toda): executa: conversar
-<!-- /FISICA -->
 
 ## Cena b6 - 36.7s a 40.4s - 14 palavras - plano wide
 > "Acontece que, em cada ilha, o bico tinha mudado de acordo com a comida."
@@ -110,12 +66,6 @@ Catalogo de TODAS as acoes do roteiro, frase por frase, com o instante (segundos
 |---|---|---|---|---|
 | 1 | - | GRANDE MOMENTO | plano de impacto: efeito + som na palavra-chave (sem tiro) | OK |
 | 2 | - | ATUACAO | reagir | OK |
-<!-- FISICA -->
-
-**FISICA E MOVIMENTO (como cada acao acontece na tela):**
-- GRANDE MOMENTO (a cena toda): clarao no cano da arma por ~0,25 s + estampido; a arma recua; o alvo (se houver) tomba
-- ATUACAO (a cena toda): executa: reagir
-<!-- /FISICA -->
 
 ## Cena b7 - 41.6s a 45.5s - 14 palavras - plano two
 > "Os bichos com o bico certo sobreviviam melhor, e passavam isso para os filhos."
@@ -124,12 +74,6 @@ Catalogo de TODAS as acoes do roteiro, frase por frase, com o instante (segundos
 |---|---|---|---|---|
 | 1 | - | INTERACAO | cochichar | OK |
 | 2 | - | ATUACAO | conversar | OK |
-<!-- FISICA -->
-
-**FISICA E MOVIMENTO (como cada acao acontece na tela):**
-- INTERACAO (a cena toda): executa: cochichar
-- ATUACAO (a cena toda): executa: conversar
-<!-- /FISICA -->
 
 ## Cena b8 - 46.6s a 50.5s - 14 palavras - plano group
 > "Essa ideia virou a seleção natural, publicada em mil oitocentos e cinquenta e nove."
@@ -139,13 +83,6 @@ Catalogo de TODAS as acoes do roteiro, frase por frase, com o instante (segundos
 | 1 | ideia (46.9s) | ACAO: pensa | mao no queixo + brilho de ideia | OK |
 | 2 | - | INTERACAO | pular | OK |
 | 3 | - | ATUACAO | comemorar | OK |
-<!-- FISICA -->
-
-**FISICA E MOVIMENTO (como cada acao acontece na tela):**
-- ACAO: pensa na palavra ideia (46.9s): executa: mao no queixo + brilho de ideia
-- INTERACAO (a cena toda): executa: pular
-- ATUACAO (a cena toda): bracos para cima e pulinhos curtos durante a frase
-<!-- /FISICA -->
 
 ## Cena b9 - 51.5s a 54.2s - 11 palavras - plano two
 > "No fim, o erro das etiquetas virou um acerto de bico."
@@ -153,11 +90,6 @@ Catalogo de TODAS as acoes do roteiro, frase por frase, com o instante (segundos
 | # | palavra (instante) | acao catalogada | animacao executada | ok? |
 |---|---|---|---|---|
 | 1 | - | ATUACAO | conversar | OK |
-<!-- FISICA -->
-
-**FISICA E MOVIMENTO (como cada acao acontece na tela):**
-- ATUACAO (a cena toda): executa: conversar
-<!-- /FISICA -->
 
 ## Cena b10 - 55.3s a 58.6s - 13 palavras - plano close
 > "Agora não deixe de comentar: qual deve ser o tema do próximo vídeo?"
@@ -166,10 +98,4 @@ Catalogo de TODAS as acoes do roteiro, frase por frase, com o instante (segundos
 |---|---|---|---|---|
 | 1 | - | ATUACAO | conversar | OK |
 | 2 | - | PLACA | COMENTE! | OK |
-<!-- FISICA -->
-
-**FISICA E MOVIMENTO (como cada acao acontece na tela):**
-- ATUACAO (a cena toda): executa: conversar
-- PLACA (a cena toda): texto entra com um pulo de escala (~0,2 s) e fica ate o fim da cena
-<!-- /FISICA -->
 

diff --git a/ferramenta-shorts/stories/darwin1835/cronograma.md b/ferramenta-shorts/stories/darwin1835/cronograma.md
@@ -29,13 +29,13 @@ N | Etapa | O que confere | Estado | Proximo passo
 5 | Voz | narracao neural gerada e tempos por palavra | FEITO | 
 6 | Estilo e enquadramento | autoajuste de luz/cor e ajuste de camera de cada tomada | FEITO | 
 7 | Gates | camera OK, todas as tomadas OK, estilo OK | FEITO | 
-8 | Storyboard e grade de acoes | video inteiro em quadros + 1 quadro no instante de cada acao | PENDENTE | 
-9 | Revisao escrita e aprovacao | uma linha por frase conferindo com a folha 3 e com o quadro da pesquisa | BLOQUEADO (etapa anterior pendente) | ./aprovar_storyboard.sh darwin1835
+8 | Storyboard e grade de acoes | video inteiro em quadros + 1 quadro no instante de cada acao | FEITO | 
+9 | Revisao escrita e aprovacao | uma linha por frase conferindo com a folha 3 e com o quadro da pesquisa | PENDENTE | ./aprovar_storyboard.sh darwin1835
 10 | Render | todos os quadros renderizados nesta versao das folhas | BLOQUEADO (etapa anterior pendente) | 
 11 | Montagem e som | trechos + voz + musica + efeitos; volume normalizado | BLOQUEADO (etapa anterior pendente) | 
 12 | Conferencia | conferir.sh sem falha e folha de contato olhada | BLOQUEADO (etapa anterior pendente) | ./conferir.sh darwin1835
 13 | Auditoria das acoes | 1 quadro do mp4 em cada palavra de acao | BLOQUEADO (etapa anterior pendente) | bash auditar_acoes.sh local darwin1835 <mp4>
 14 | Entrega | mp4 original 1080x1920 enviado; commit e push | BLOQUEADO (etapa anterior pendente) | 
 
-**Etapa atual:** 8. Storyboard e grade de acoes
+**Etapa atual:** 9. Revisao escrita e aprovacao
 
